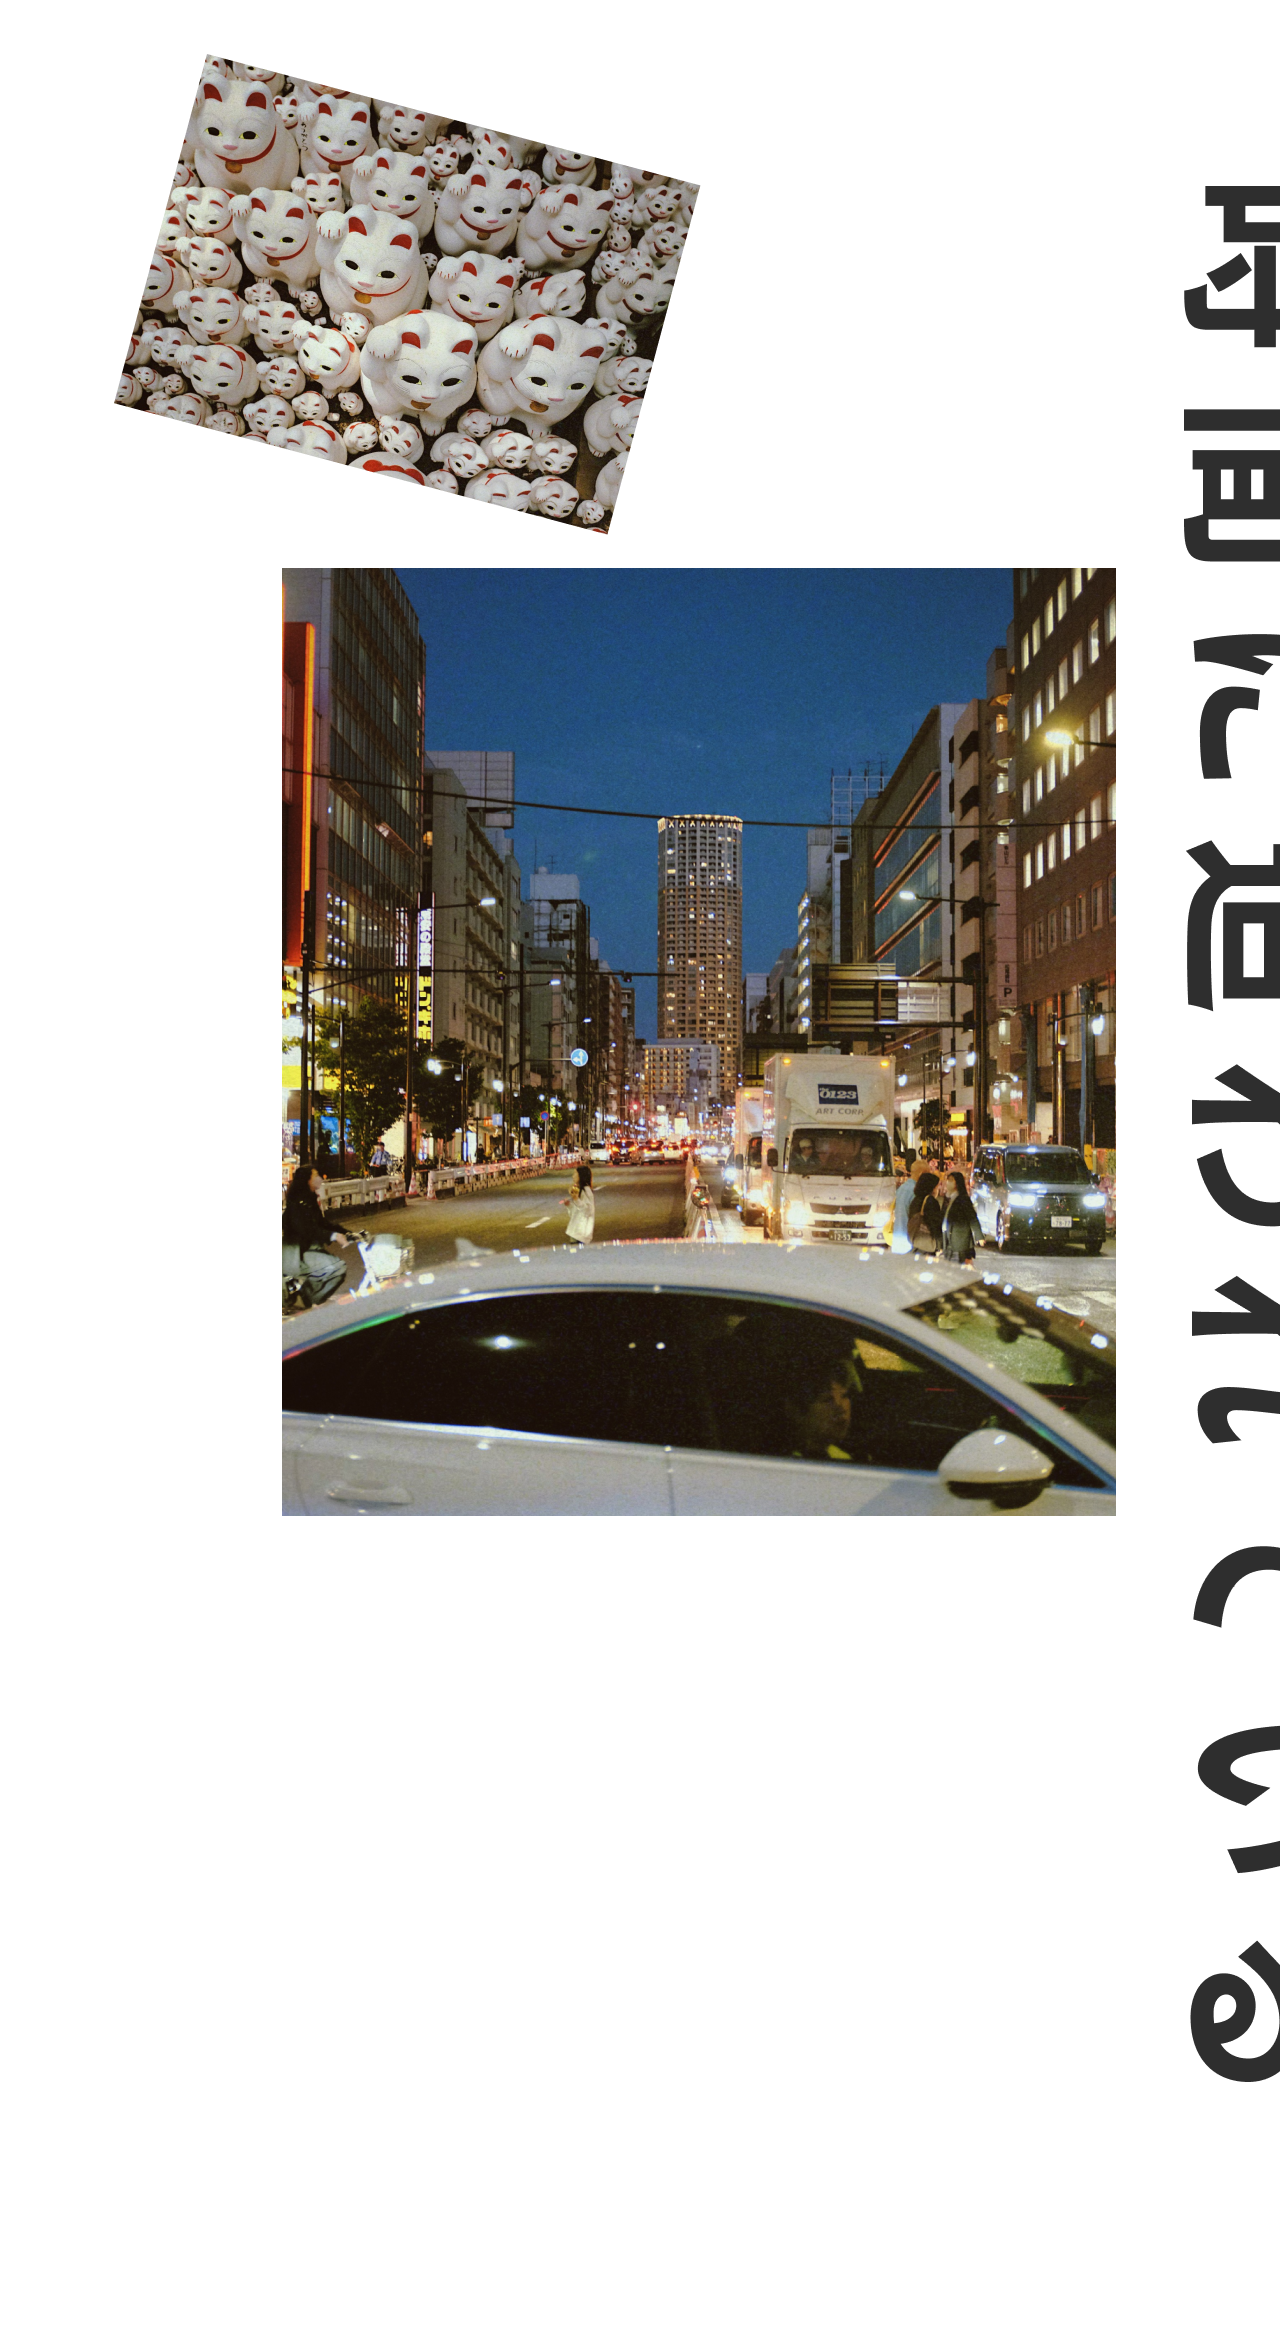
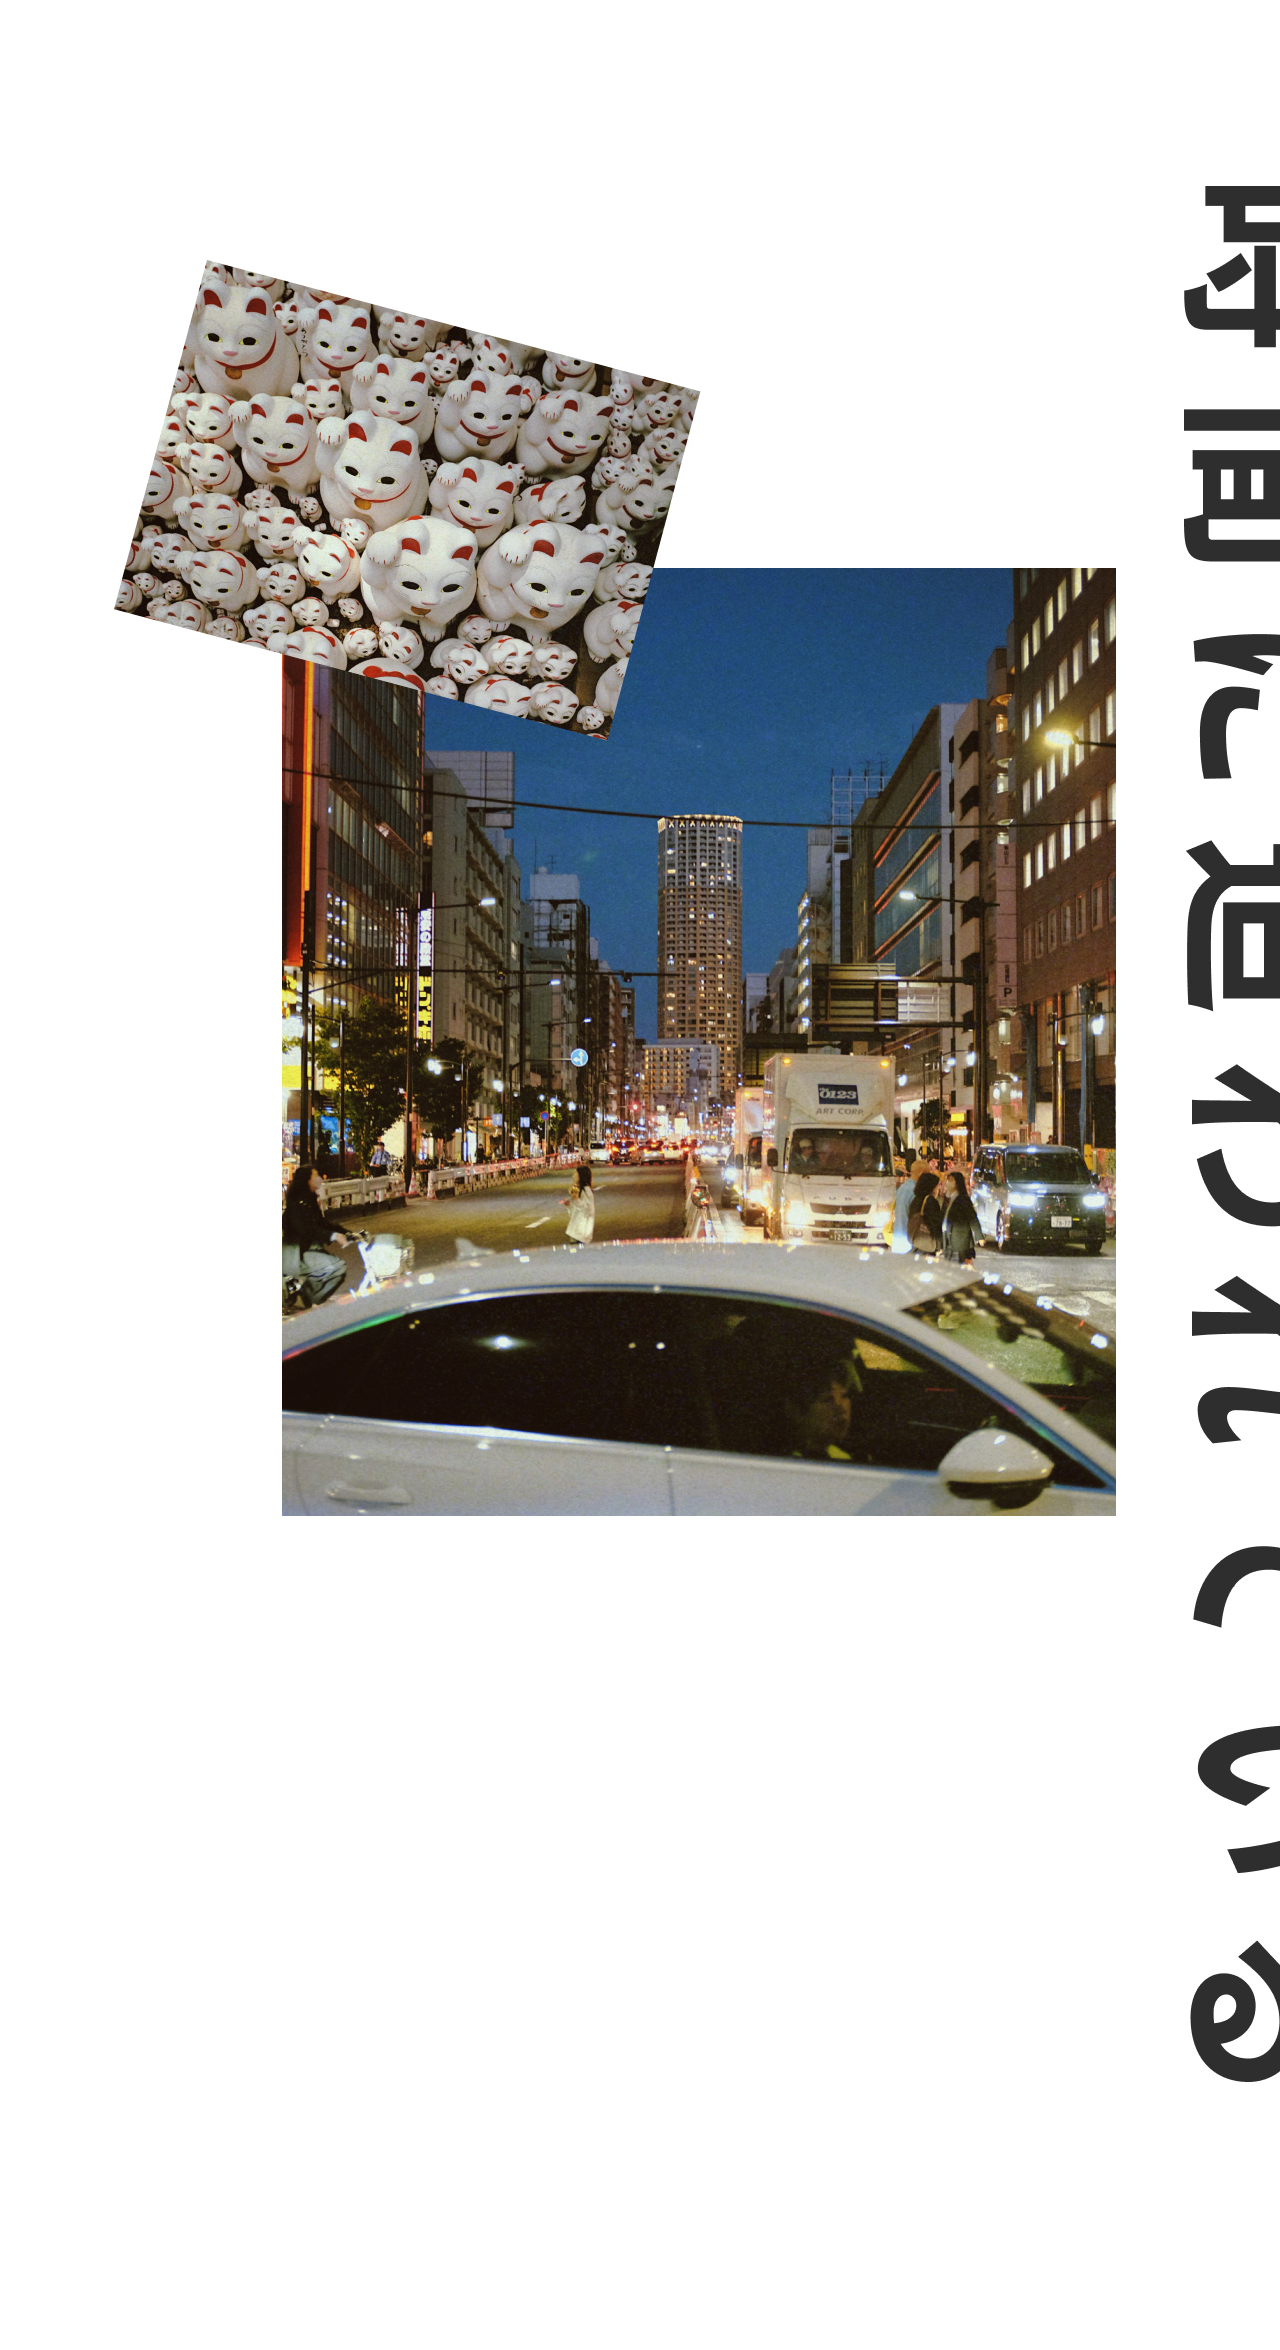
small padding

Changed region(s): [[0.0938, 0.0, 0.5625, 0.3106]]

diff --git a/styles/styles.css b/styles/styles.css
@@ -99,7 +99,7 @@ small {
 }
 
 .main-container {
-  padding: 2vw 16vw 6vw 16vw;
+  padding: 2vw 6vw 6vw;
   max-width: 1920px;
 }
 
